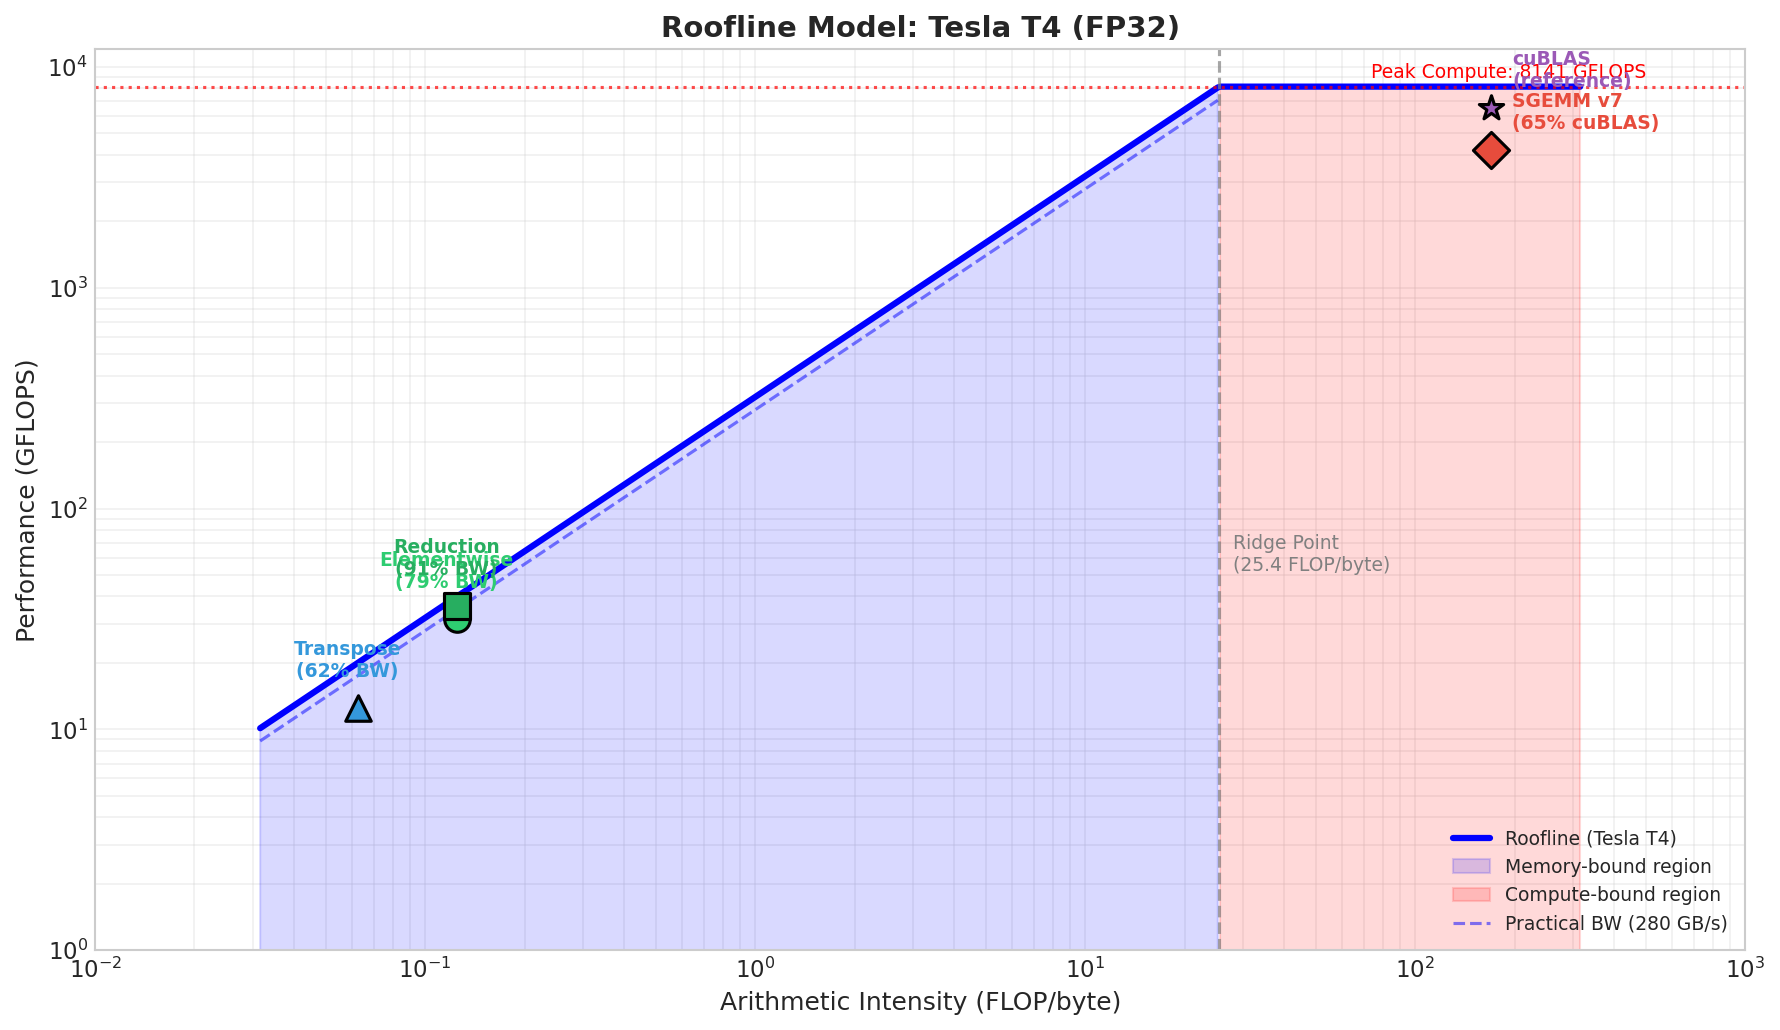
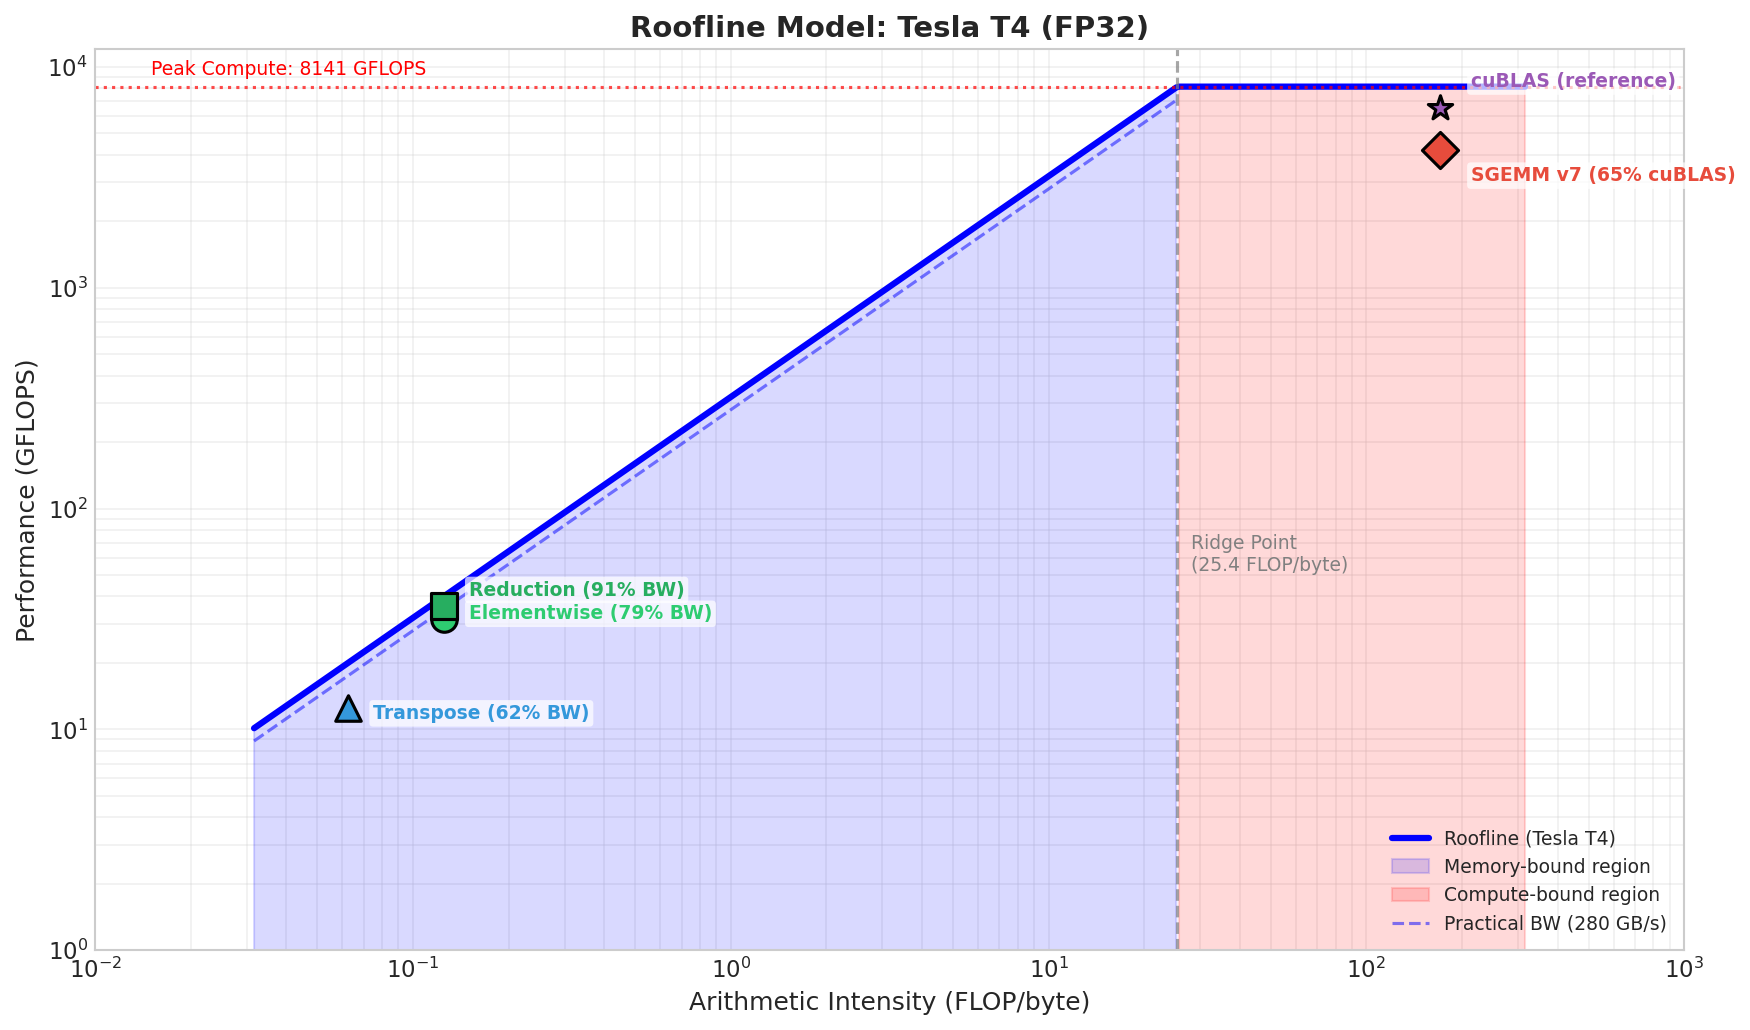
refactor(generate_figures): adjust label positioning in roofline model figure

diff --git a/figures/generate_figures.py b/figures/generate_figures.py
@@ -136,31 +136,27 @@ def generate_roofline():
     
     # Peak lines
     ax.axhline(y=peak_gflops, color='red', linestyle=':', linewidth=1.5, alpha=0.7)
-    ax.text(500, peak_gflops * 1.05, f'Peak Compute: {peak_gflops} GFLOPS',
-            fontsize=9, color='red', ha='right', va='bottom')
+    ax.text(0.015, peak_gflops * 1.08, f'Peak Compute: {peak_gflops} GFLOPS',
+            fontsize=9, color='red', ha='left', va='bottom')
     
-    # Kernel data points
+    # Kernel data points with custom label positions (x_offset, y_offset in points)
     kernels = [
-        # (name, AI, achieved_gflops, color, marker)
-        ('Elementwise\n(79% BW)', 0.125, 0.125 * 252, '#2ecc71', 'o'),
-        ('Reduction\n(91% BW)', 0.125, 0.125 * 290, '#27ae60', 's'),
-        ('Transpose\n(62% BW)', 0.0625, 0.0625 * 199, '#3498db', '^'),
-        ('SGEMM v7\n(65% cuBLAS)', 170, 4209, '#e74c3c', 'D'),
-        ('cuBLAS\n(reference)', 170, 6523, '#9b59b6', '*'),
+        # (name, AI, achieved_gflops, color, marker, x_off, y_off, ha)
+        ('Elementwise (79% BW)', 0.125, 0.125 * 252, '#2ecc71', 'o', 12, 0, 'left'),
+        ('Reduction (91% BW)', 0.125, 0.125 * 290, '#27ae60', 's', 12, 5, 'left'),
+        ('Transpose (62% BW)', 0.0625, 0.0625 * 199, '#3498db', '^', 12, -5, 'left'),
+        ('SGEMM v7 (65% cuBLAS)', 170, 4209, '#e74c3c', 'D', 15, -15, 'left'),
+        ('cuBLAS (reference)', 170, 6523, '#9b59b6', '*', 15, 10, 'left'),
     ]
     
-    for name, ai_val, gflops, color, marker in kernels:
+    for name, ai_val, gflops, color, marker, x_off, y_off, ha in kernels:
         ax.scatter([ai_val], [gflops], c=color, s=150, marker=marker, 
                    edgecolors='black', linewidths=1.5, zorder=5)
-        # Offset text to avoid overlap
-        if 'SGEMM' in name or 'cuBLAS' in name:
-            ax.annotate(name, (ai_val, gflops), xytext=(10, 10),
-                       textcoords='offset points', fontsize=9,
-                       fontweight='bold', color=color)
-        else:
-            ax.annotate(name, (ai_val, gflops), xytext=(-5, 15),
-                       textcoords='offset points', fontsize=9,
-                       fontweight='bold', color=color, ha='center')
+        ax.annotate(name, (ai_val, gflops), xytext=(x_off, y_off),
+                   textcoords='offset points', fontsize=9,
+                   fontweight='bold', color=color, ha=ha,
+                   bbox=dict(boxstyle='round,pad=0.2', facecolor='white', 
+                            edgecolor='none', alpha=0.7))
     
     # Realistic ceilings (dashed lines)
     practical_bw = 280  # After ECC, controller overhead
